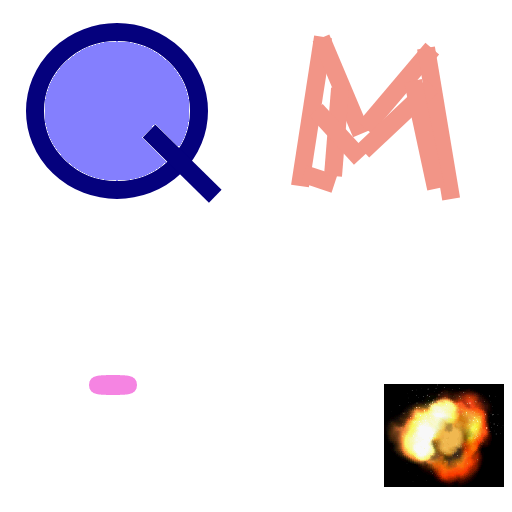
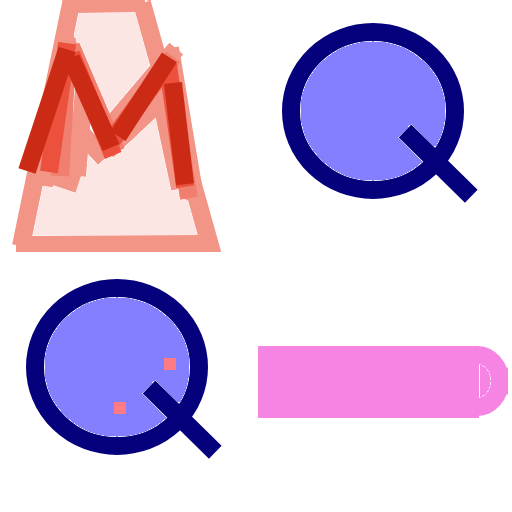
v. 0.0.3
0.0.3
- Добавил управление на WASD.
- Теперь после смерти можно начать игру заново. Нажмите «пробел».
- Оживил Q.
- Сделал противников чуть более похожих на противников.
- Подправил размер всех объектов.
- Взрывы стали красочнее.
- Убрал музыку. Поставил её просто, чтобы потестить и забыл убрать.

diff --git a/game/data.js b/game/data.js
@@ -1,1 +1,1 @@
-{"project":["First Attempt",null,[[0,false,true,true,true,true,true,true,true,true],[1,true,false,false,false,false,false,false,false,false],[2,true,false,false,false,false,false,false,false,false],[3,false,true,true,true,true,true,true,true,false],[10,false,true,true,true,true,true,true,true,false],[11,true,false,false,false,false,false,false,false,false]],[["TiledBackground",0,false,[],0,0,["images/tiledbackground-sheet0.png",3075,0,0,0,250,250],null,[],false,false,532908030140474,[],null],["Mouse",1,false,[],0,0,null,null,[],false,false,202912054813827,[],null,[]],["Keyboard",2,false,[],0,0,null,null,[],false,false,208660846786471,[],null,[]],["Player",3,false,[],3,0,null,[["Animation 1",5,false,1,0,false,402903370883582,[["images/shared-0-sheet0.png",33553,1,1,250,250,1,0.476,0.432,[["Image Point 1",0.84,0.76]],[],0]]]],[["8Direction",4,225036210315665],["ScrollTo",5,444964488739862],["BoundToLayout",6,457914709154053]],false,false,645508038394546,[],null],["Monster",3,false,[931992561039440],1,0,null,[["Animation 1",5,false,1,0,false,613451430122831,[["images/shared-0-sheet0.png",33553,257,1,250,250,1,0.5,0.5,[],[],0]]]],[["Bullet",7,925918829613273]],false,false,644748432416999,[],null],["Bullet",3,false,[],2,0,null,[["Animation 1",5,false,1,0,false,334195111053950,[["images/shared-0-sheet0.png",33553,1,257,250,250,1,0.5,0.5,[],[],0]]]],[["DestroyOutsideLayout",8,107242154252165],["Bullet",7,622129954143621]],false,false,599867726168510,[],null],["Explosion",3,false,[],1,0,null,[["Animation 1",5,false,1,0,false,297087940039956,[["images/shared-0-sheet0.png",33553,385,385,118,101,1,0.5,0.5,[],[-0.5,-0.5,0,-0.5,0.4915254237288136,-0.5,0.4915254237288136,0,0.4915254237288136,0.4900990099009901,0,0.4900990099009901,-0.5,0.4900990099009901,-0.5,0],0]]]],[["Fade",9,182640193144695]],false,false,337902039501560,[],null],["Score",10,false,[],0,0,null,null,[],false,false,823677511369530,[],null],["GameOver",10,false,[],0,0,null,null,[],false,false,633996364842960,[],null],["Audio",11,false,[],0,0,null,null,[],false,false,893416091328388,[],null,[0,0,true,1,1,600,600,10000,1]],["Restart",10,false,[],0,0,null,null,[],false,false,289877626119402,[],null]],[],[["Layout 1",640,360,false,"Event sheet 1",876958751165953,[["Layer 0",0,979091646422011,true,[255,255,255],false,1,1,1,false,false,1,0,0,[[[0,0,0,640,360,0,0,1,0,0,0,0,[]],0,1,[],[],[true,0]],[[77.8729833450596,45.84650223605078,0,40,40,0,0,1,0.476,0.432,0,0,[]],3,4,[],[[200,600,500,3,3,true,true],[true],[1]],[true,"Animation 1",0,true]],[[440.93714696688954,178.76036157367778,0,30,30,0,0,1,0.5,0.5,0,0,[]],4,5,[[3]],[[80,0,0,false,true,false,true]],[true,"Animation 1",0,true]],[[493,-81,0,87,95,0,0,1,0.5,0.5,0,0,[]],5,6,[],[[],[600,0,0,false,true,false,true]],[true,"Animation 1",0,true]],[[394.0842712578926,-78.23266711024745,0,35,35,0,0,1,0.5,0.5,1,0,[]],6,7,[],[[0,0,0.5,true,true]],[true,"Animation 1",0,true]],[[373.93714696688954,221.76036157367778,0,30,30,0,0,1,0.5,0.5,0,0,[]],4,8,[[3]],[[80,0,0,false,true,false,true]],[true,"Animation 1",0,true]],[[287.93714696688954,242.76036157367778,0,30,30,0,0,1,0.5,0.5,0,0,[]],4,9,[[3]],[[80,0,0,false,true,false,true]],[true,"Animation 1",0,true]],[[187.93714696688954,272.76036157367776,0,30,30,0,0,1,0.5,0.5,0,0,[]],4,10,[[3]],[[80,0,0,false,true,false,true]],[true,"Animation 1",0,true]],[[532.9371469668895,102.76036157367778,0,30,30,0,0,1,0.5,0.5,0,0,[]],4,11,[[3]],[[80,0,0,false,true,false,true]],[true,"Animation 1",0,true]]],[]],["HUD",1,690570937694741,true,[255,255,255],true,0,0,1,false,false,1,0,0,[[[8.749389781461787,7.073797999043109,0,200,30,0,0,1,0,0,0,0,[]],7,12,[],[],["SCORE",false,"Arial",12,0,false,false,[0,0,0],0,0,0,true,0]],[[24.389305226564503,92.44168829009192,0,273.97012060223517,19.84723834871278,0,0,1,0,0,0,0,[]],8,13,[],[],["GAME OVER",false,"Arial",12,0,false,false,[0,0,0],1,1,0,true,0]],[[47.55869485820146,119.39129107704957,0,240.19204788435547,30,0,0,1,0,0,0,0,[]],10,15,[],[],["PRESS «SPACE» TO RESTART",false,"Arial",12,0,false,false,[0,0,0],0,0,0,true,0]]],[]]],[],[],[]]],[["Event sheet 1",[[1,"Score",0,0,false,false,792278397724579,false],[0,null,false,null,327585894119564,[[-1,12,null,0,false,false,false,866081533400794,false]],[[3,13,null,708204621428787,false,[[0,[20,1,14,false,null]],[0,[20,1,15,false,null]]]],[7,16,null,904220599248429,false,[[7,[10,[2,"Score: "],[23,"Score"]]]]]]],[0,null,false,null,480279256384206,[[1,17,null,1,false,false,false,603057835099350,false,[[3,0],[3,0]]]],[[3,18,null,804240417286477,false,[[4,5],[5,[1,0]],[7,[1,1]]]]]],[0,null,false,null,699137123489766,[[5,19,null,0,false,false,true,564672992077516,false,[[4,4]]]],[[4,20,null,467655881647576,false,[[10,0],[7,[1,1]]]],[5,18,null,383770984516025,false,[[4,6],[5,[1,0]],[7,[1,0]]]],[5,21,null,291833961449089,false]]],[0,null,false,null,399769243958478,[[-1,22,null,1,false,false,false,931750112744207,false]],[[4,23,null,738330488406828,false,[[0,[19,24,[[1,360]]]]]],[8,25,null,500122108512882,false,[[3,0]]],[10,25,null,399162518121036,false,[[3,0]]]]],[0,null,false,null,976264361072771,[[4,26,null,0,false,false,false,288279198085117,false]],[[4,13,null,206039861099252,false,[[0,[20,3,27,false,null]],[0,[20,3,28,false,null]]]]]],[0,null,false,null,192510750632332,[[4,29,null,0,false,false,false,467659543261783,false,[[10,0],[8,3],[7,[1,0]]]]],[[4,18,null,542955665408746,false,[[4,6],[5,[1,0]],[7,[1,0]]]],[4,21,null,773780997564926,false],[-1,30,null,803084730823285,false,[[11,"Score"],[7,[1,1]]]]]],[0,null,false,null,296413374230840,[[-1,31,null,0,false,false,false,626524737246589,false,[[0,[1,3]]]]],[[-1,32,null,880944486275210,false,[[4,4],[5,[1,0]],[0,[4,[19,33],[1,100]]],[0,[19,24,[[19,34]]]]]]]],[0,null,false,null,648022851091501,[[4,19,null,0,false,false,true,119449997269788,false,[[4,3]]]],[[3,21,null,877240919461207,false],[8,16,null,602740633382958,false,[[7,[10,[10,[2,"GAME OVER... You scored "],[23,"Score"]],[2," points!"]]]]],[8,25,null,119863432775665,false,[[3,1]]],[7,25,null,466983332562709,false,[[3,0]]],[10,25,null,424140932951471,false,[[3,1]]]]],[0,null,false,null,882212514923709,[[2,35,null,1,false,false,false,162114896657698,false,[[9,32]]],[-1,36,null,0,false,false,false,871301720162705,false,[[7,[20,3,37,false,null]],[8,0],[7,[1,0]]]]],[[-1,38,null,285557540216505,false,[[11,"Score"],[7,[1,0]]]],[-1,39,null,991172794276589,false,[[6,"Layout 1"]]]]]]]],[],"media/",true,320,180,5,true,false,true,"1.0.0.0",true,false,4,0,16,false,false,1,true,false,[],"icons/",[],true,"3j9zvxqj66n"]}
+{"project":["First Attempt",null,[[0,false,true,true,true,true,true,true,true,true],[1,true,false,false,false,false,false,false,false,false],[2,true,false,false,false,false,false,false,false,false],[3,false,true,true,true,true,true,true,true,false],[10,false,true,true,true,true,true,true,true,false],[11,true,false,false,false,false,false,false,false,false]],[["TiledBackground",0,false,[],0,0,["images/tiledbackground-sheet0.png",3075,0,0,0,250,250],null,[],false,false,532908030140474,[],null],["Mouse",1,false,[],0,0,null,null,[],false,false,202912054813827,[],null,[]],["Keyboard",2,false,[],0,0,null,null,[],false,false,208660846786471,[],null,[]],["Player",3,false,[],3,0,null,[["Animation 1",5,true,1,0,false,402903370883582,[["images/shared-0-sheet0.png",42829,1,257,250,250,1,0.48,0.4,[["Image Point 1",0.84,0.76]],[],0],["images/shared-0-sheet0.png",42829,257,1,250,250,1,0.48,0.404,[["Image Point 1",0.84,0.76]],[],0]]]],[["8Direction",4,225036210315665],["ScrollTo",5,444964488739862],["BoundToLayout",6,457914709154053]],false,false,645508038394546,[],null],["Monster",3,false,[931992561039440],1,0,null,[["Animation 1",5,false,1,0,false,613451430122831,[["images/shared-0-sheet0.png",42829,1,1,250,250,1,0.5,0.5,[],[],0]]]],[["Bullet",7,925918829613273]],false,false,644748432416999,[],null],["Bullet",3,false,[],2,0,null,[["Animation 1",5,false,1,0,false,334195111053950,[["images/shared-0-sheet0.png",42829,257,257,250,250,1,0.5,0.5,[],[],0]]]],[["DestroyOutsideLayout",8,107242154252165],["Bullet",7,622129954143621]],false,false,599867726168510,[],null],["Explosion",3,false,[],1,0,null,[["Animation 1",5,false,1,0,false,297087940039956,[["images/shared-0-sheet1.png",9201,0,0,118,101,1,0.5,0.5,[],[-0.5,-0.5,0,-0.5,0.4915254237288136,-0.5,0.4915254237288136,0,0.4915254237288136,0.4900990099009901,0,0.4900990099009901,-0.5,0.4900990099009901,-0.5,0],0]]]],[["Fade",9,182640193144695]],false,false,337902039501560,[],null],["Score",10,false,[],0,0,null,null,[],false,false,823677511369530,[],null],["GameOver",10,false,[],0,0,null,null,[],false,false,633996364842960,[],null],["Audio",11,false,[],0,0,null,null,[],false,false,893416091328388,[],null,[0,0,true,1,1,600,600,10000,1]],["Restart",10,false,[],0,0,null,null,[],false,false,289877626119402,[],null]],[],[["Layout 1",640,360,false,"Event sheet 1",876958751165953,[["Layer 0",0,979091646422011,true,[255,255,255],false,1,1,1,false,false,1,0,0,[[[0,0,0,640,360,0,0,1,0,0,0,0,[]],0,1,[],[],[true,0]],[[46.23243501056699,74.9216007055845,0,40,40,0,0,1,0.48,0.4,0,0,[]],3,4,[],[[200,600,500,3,3,true,true],[true],[1]],[true,"Animation 1",0,true]],[[440.93714696688954,178.76036157367778,0,30,30,0,0,1,0.5,0.5,0,0,[]],4,5,[[3]],[[80,0,0,false,true,false,true]],[true,"Animation 1",0,true]],[[441.6910027008228,-79.28970009002744,0,11.746803961206808,16.3262041412616,0,0,1,0.5,0.5,0,0,[]],5,6,[],[[],[600,0,0,false,true,false,true]],[true,"Animation 1",0,true]],[[394.0842712578926,-78.23266711024745,0,25,25,0,0,1,0.5,0.5,1,0,[]],6,7,[],[[0,0,0.5,true,true]],[true,"Animation 1",0,true]],[[373.93714696688954,221.76036157367778,0,30,30,0,0,1,0.5,0.5,0,0,[]],4,8,[[3]],[[80,0,0,false,true,false,true]],[true,"Animation 1",0,true]],[[287.93714696688954,242.76036157367778,0,30,30,0,0,1,0.5,0.5,0,0,[]],4,9,[[3]],[[80,0,0,false,true,false,true]],[true,"Animation 1",0,true]],[[187.93714696688954,272.76036157367776,0,30,30,0,0,1,0.5,0.5,0,0,[]],4,10,[[3]],[[80,0,0,false,true,false,true]],[true,"Animation 1",0,true]],[[532.9371469668895,102.76036157367778,0,30,30,0,0,1,0.5,0.5,0,0,[]],4,11,[[3]],[[80,0,0,false,true,false,true]],[true,"Animation 1",0,true]]],[]],["HUD",1,690570937694741,true,[255,255,255],true,0,0,1,false,false,1,0,0,[[[8.749389781461787,7.073797999043109,0,200,30,0,0,1,0,0,0,0,[]],7,12,[],[],["SCORE",false,"Arial",12,0,false,false,[0,0,0],0,0,0,true,0]],[[24.389305226564503,92.44168829009192,0,273.97012060223517,19.84723834871278,0,0,1,0,0,0,0,[]],8,13,[],[],["GAME OVER",false,"Arial",12,0,false,false,[0,0,0],1,1,0,true,0]],[[47.55869485820146,119.39129107704957,0,240.19204788435547,30,0,0,1,0,0,0,0,[]],10,15,[],[],["PRESS «SPACE» TO RESTART",false,"Arial",12,0,false,false,[0,0,0],0,0,0,true,0]]],[]]],[],[],[]]],[["Event sheet 1",[[1,"Score",0,0,false,false,792278397724579,false],[0,null,false,null,327585894119564,[[-1,12,null,0,false,false,false,866081533400794,false]],[[3,13,null,708204621428787,false,[[0,[20,1,14,false,null]],[0,[20,1,15,false,null]]]],[7,16,null,904220599248429,false,[[7,[10,[2,"Score: "],[23,"Score"]]]]]]],[0,null,false,null,480279256384206,[[1,17,null,1,false,false,false,603057835099350,false,[[3,0],[3,0]]]],[[3,18,null,804240417286477,false,[[4,5],[5,[1,0]],[7,[1,1]]]]]],[0,null,false,null,699137123489766,[[5,19,null,0,false,false,true,564672992077516,false,[[4,4]]]],[[4,20,null,467655881647576,false,[[10,0],[7,[1,1]]]],[5,18,null,383770984516025,false,[[4,6],[5,[1,0]],[7,[1,0]]]],[5,21,null,291833961449089,false]]],[0,null,false,null,399769243958478,[[-1,22,null,1,false,false,false,931750112744207,false]],[[4,23,null,738330488406828,false,[[0,[19,24,[[1,360]]]]]],[8,25,null,500122108512882,false,[[3,0]]],[10,25,null,399162518121036,false,[[3,0]]]]],[0,null,false,null,976264361072771,[[4,26,null,0,false,false,false,288279198085117,false]],[[4,13,null,206039861099252,false,[[0,[20,3,27,false,null]],[0,[20,3,28,false,null]]]]]],[0,null,false,null,192510750632332,[[4,29,null,0,false,false,false,467659543261783,false,[[10,0],[8,3],[7,[1,0]]]]],[[4,18,null,542955665408746,false,[[4,6],[5,[1,0]],[7,[1,0]]]],[4,21,null,773780997564926,false],[-1,30,null,803084730823285,false,[[11,"Score"],[7,[1,1]]]],[6,31,null,766345141981205,false,[[0,[1,1.5]]]]]],[0,null,false,null,296413374230840,[[-1,32,null,0,false,false,false,626524737246589,false,[[0,[1,3]]]]],[[-1,33,null,880944486275210,false,[[4,4],[5,[1,0]],[0,[4,[19,34],[1,100]]],[0,[19,24,[[19,35]]]]]]]],[0,null,false,null,648022851091501,[[4,19,null,0,false,false,true,119449997269788,false,[[4,3]]]],[[3,21,null,877240919461207,false],[8,16,null,602740633382958,false,[[7,[10,[10,[2,"GAME OVER... You scored "],[23,"Score"]],[2," points!"]]]]],[8,25,null,119863432775665,false,[[3,1]]],[7,25,null,466983332562709,false,[[3,0]]],[10,25,null,424140932951471,false,[[3,1]]],[3,18,null,775611867939016,false,[[4,6],[5,[1,0]],[7,[1,0]]]],[6,31,null,884225322221448,false,[[0,[1,2]]]]]],[0,null,false,null,882212514923709,[[2,36,null,1,false,false,false,162114896657698,false,[[9,32]]],[-1,37,null,0,false,false,false,871301720162705,false,[[7,[20,3,38,false,null]],[8,0],[7,[1,0]]]]],[[-1,39,null,285557540216505,false,[[11,"Score"],[7,[1,0]]]],[-1,40,null,991172794276589,false,[[6,"Layout 1"]]]]],[0,null,false,null,930357320531091,[[2,41,null,0,false,false,false,969718482579658,false,[[9,87]]]],[[3,42,"8Direction",955496066354333,false,[[3,2]]]]],[0,null,false,null,154176016783584,[[2,41,null,0,false,false,false,759737251907250,false,[[9,83]]]],[[3,42,"8Direction",496567415772745,false,[[3,3]]]]],[0,null,false,null,838639954637670,[[2,41,null,0,false,false,false,438474724039253,false,[[9,65]]]],[[3,42,"8Direction",232594904205267,false,[[3,0]]]]],[0,null,false,null,535024728084537,[[2,41,null,0,false,false,false,539306946900274,false,[[9,68]]]],[[3,42,"8Direction",988984312705643,false,[[3,1]]]]]]]],[],"media/",true,320,180,5,true,false,true,"1.0.0.0",true,false,4,0,16,false,false,1,true,false,[],"icons/",[],true,"3j9zvxqj66n"]}

diff --git a/game/c2runtime.js b/game/c2runtime.js
@@ -30648,6 +30648,7 @@ cr.getObjectRefTable = function () {
 		cr.plugins_.Sprite.prototype.exps.Y,
 		cr.plugins_.Sprite.prototype.cnds.CompareInstanceVar,
 		cr.system_object.prototype.acts.AddVar,
+		cr.plugins_.Sprite.prototype.acts.SetScale,
 		cr.system_object.prototype.cnds.Every,
 		cr.system_object.prototype.acts.CreateObject,
 		cr.system_object.prototype.exps.layoutwidth,
@@ -30656,7 +30657,9 @@ cr.getObjectRefTable = function () {
 		cr.system_object.prototype.cnds.Compare,
 		cr.plugins_.Sprite.prototype.exps.Count,
 		cr.system_object.prototype.acts.SetVar,
-		cr.system_object.prototype.acts.GoToLayout
+		cr.system_object.prototype.acts.GoToLayout,
+		cr.plugins_.Keyboard.prototype.cnds.IsKeyDown,
+		cr.behaviors.EightDir.prototype.acts.SimulateControl
 	];
 };
 

diff --git a/game/offline.js b/game/offline.js
@@ -1,1 +1,1 @@
-{"version":1521804809142,"fileList":["c2runtime.js","data.js","start.js","style.css","offlineClient.js","images/shared-0-sheet0.png","images/tiledbackground-sheet0.png","icons/loading-logo.png","icons/icon-16.png","icons/icon-32.png","icons/icon-64.png","icons/icon-128.png","icons/icon-256.png","icons/icon-512.png","register-sw.js"]}
+{"version":1521806591750,"fileList":["c2runtime.js","data.js","start.js","style.css","offlineClient.js","images/shared-0-sheet0.png","images/shared-0-sheet1.png","images/tiledbackground-sheet0.png","icons/loading-logo.png","icons/icon-16.png","icons/icon-32.png","icons/icon-64.png","icons/icon-128.png","icons/icon-256.png","icons/icon-512.png","register-sw.js"]}
